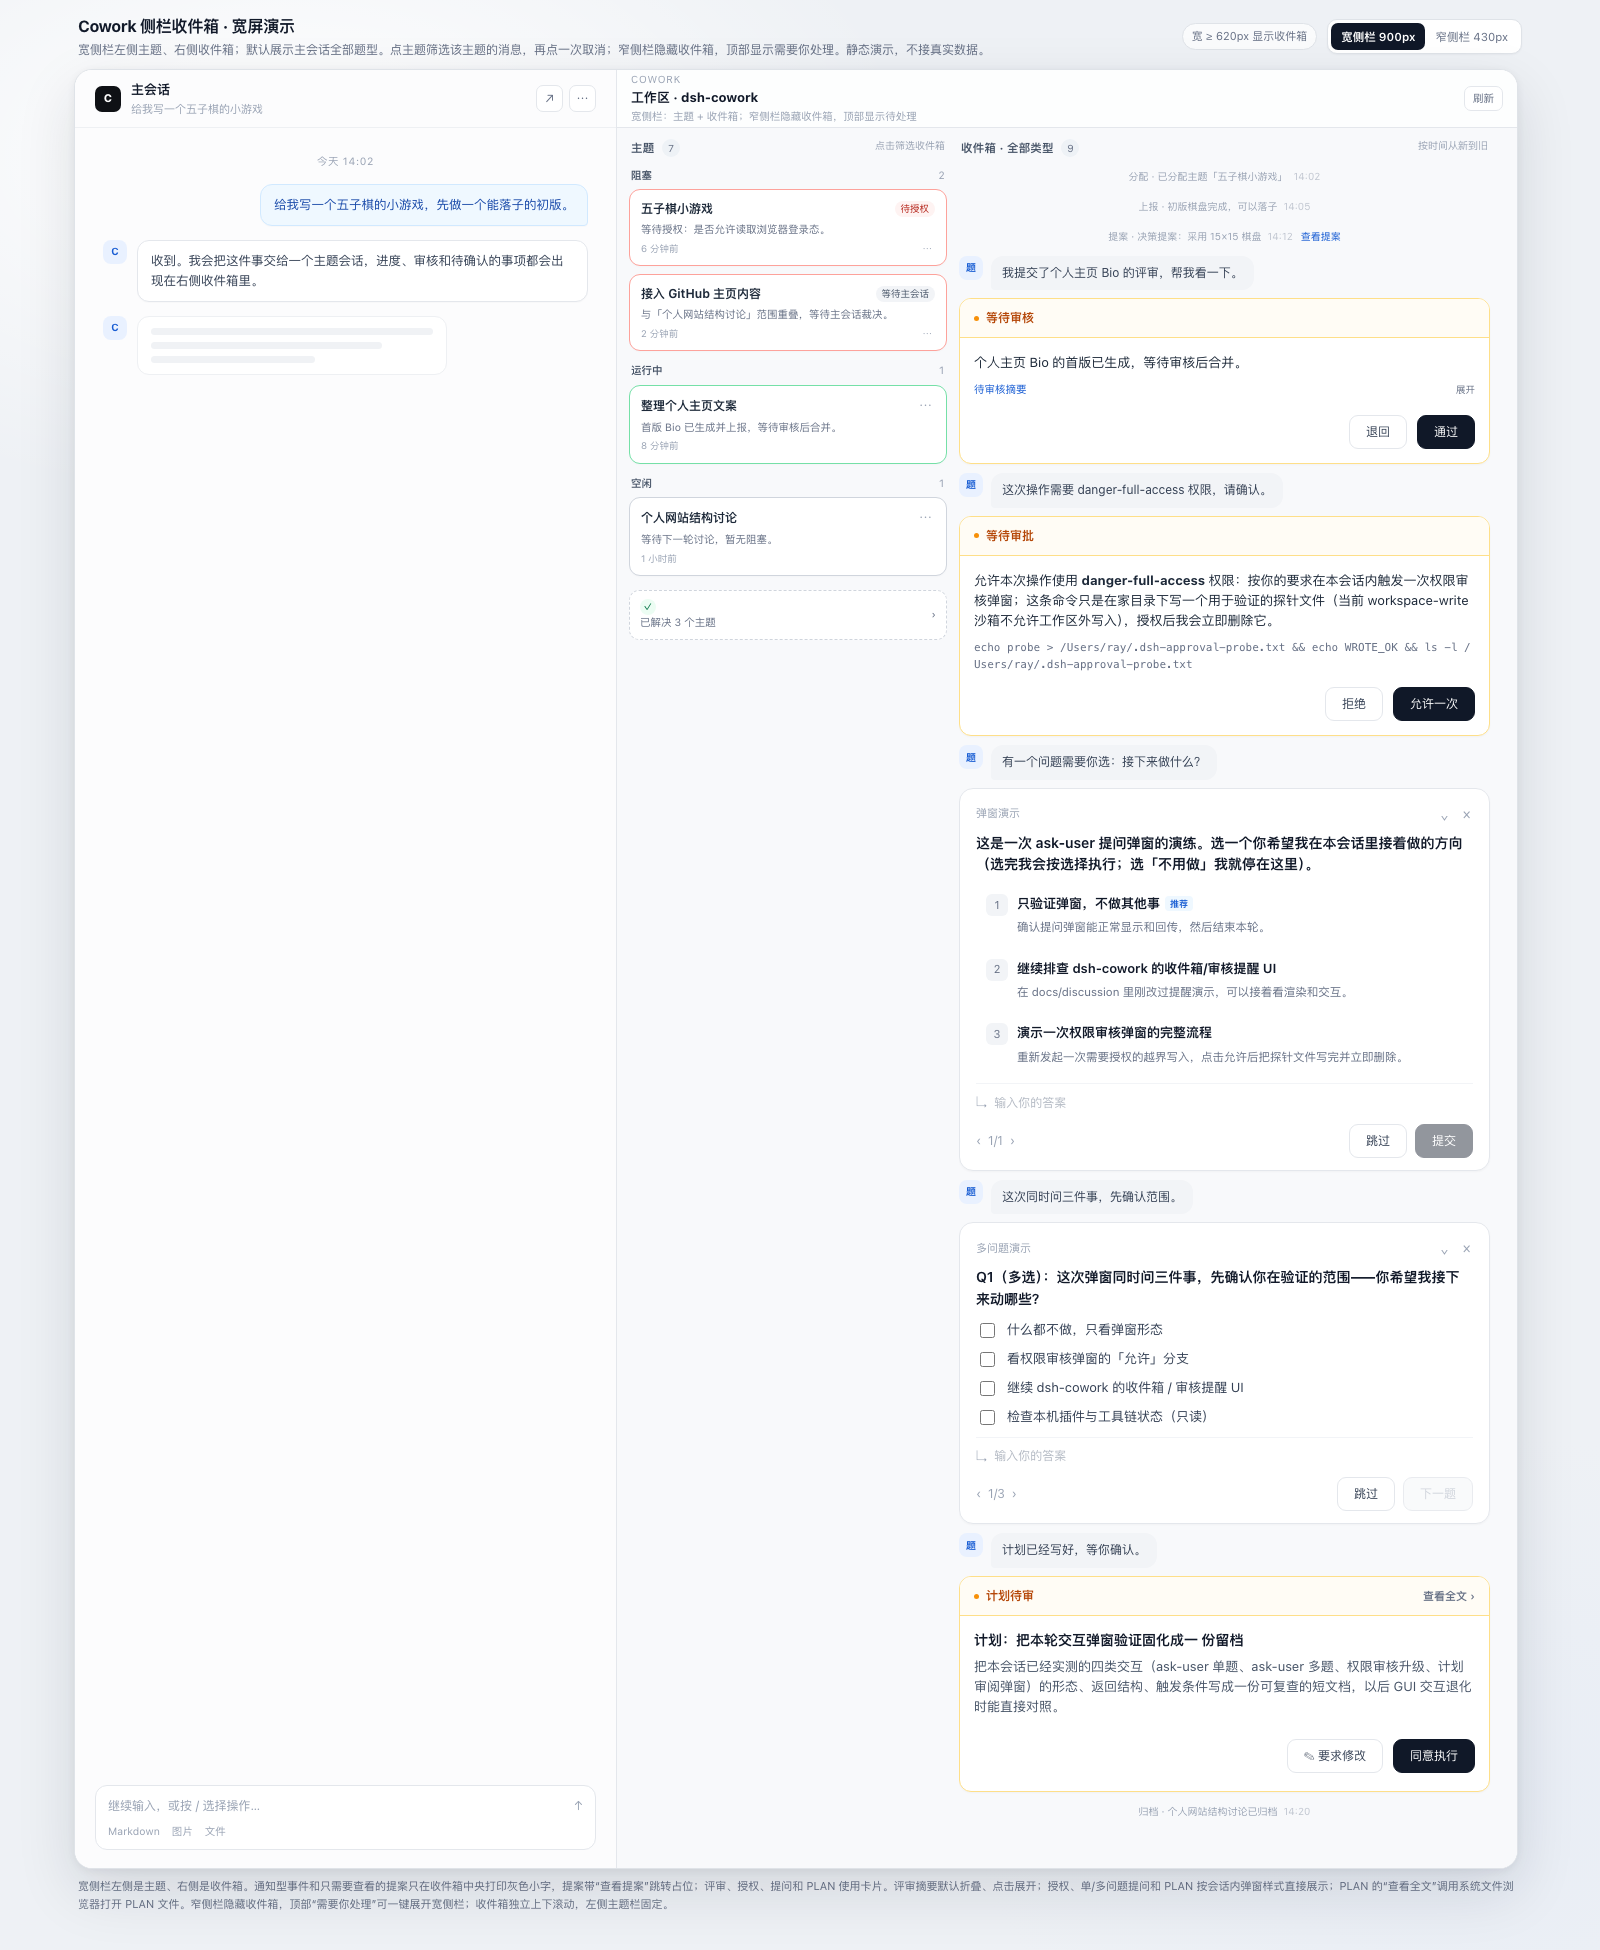
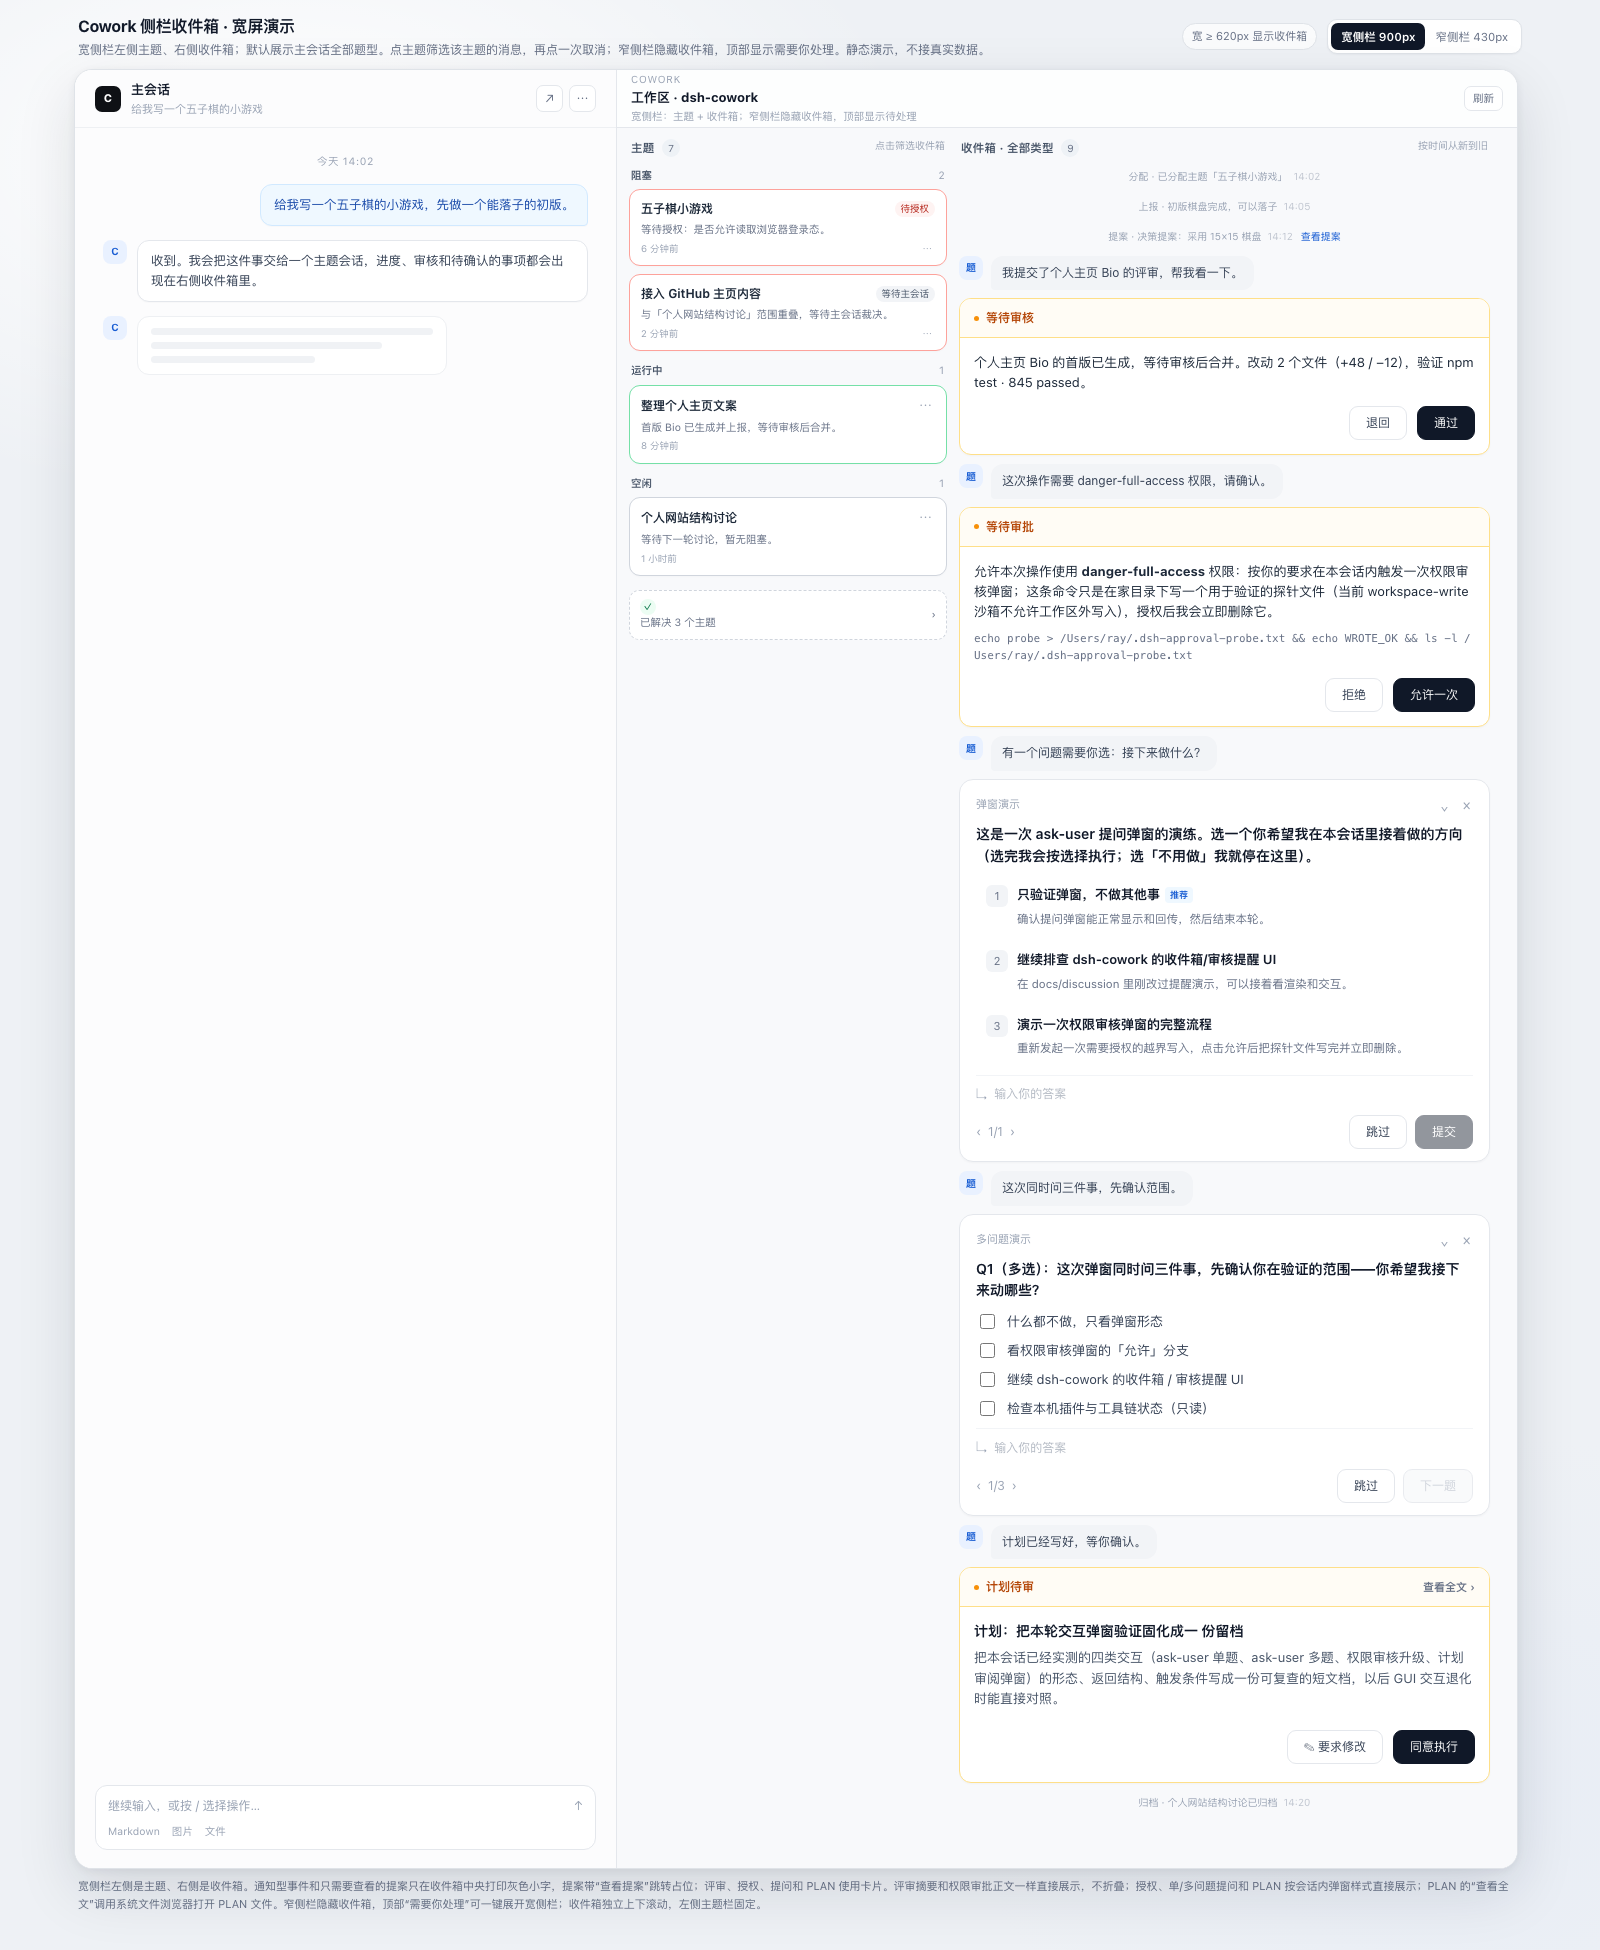
docs(topic-reminders): 评审摘要改为直接展示
评审摘要与权限审批正文同样直接展示、不折叠；移除评审展开态截图，保留对话式左右消息和操作后回复。

diff --git a/docs/discussion/topic-reminder-demo.html b/docs/discussion/topic-reminder-demo.html
@@ -1098,13 +1098,7 @@
             <article class="approval-card" data-kind="review" data-topic="bio" data-topic-name="整理个人主页文案" data-actionable="true">
               <div class="approval-head"><span class="approval-label"><span class="amber-dot"></span>等待审核</span></div>
               <div class="approval-body">
-                <p>个人主页 Bio 的首版已生成，等待审核后合并。</p>
-                <button type="button" class="card-expand" data-expand="review-details" aria-expanded="false">待审核摘要 <span>展开</span></button>
-                <div class="card-detail" id="review-details" hidden>
-                  <div class="detail-line"><span>目的</span><span>个人主页首版 Bio</span></div>
-                  <div class="detail-line"><span>改动</span><span>2 个文件 · +48 / −12</span></div>
-                  <div class="detail-line"><span>验证</span><span>npm test · 845 passed</span></div>
-                </div>
+                <p>个人主页 Bio 的首版已生成，等待审核后合并。改动 2 个文件（+48 / −12），验证 npm test · 845 passed。</p>
               </div>
               <div class="approval-actions">
                 <button type="button" class="btn-ghost" data-action="return">退回</button>
@@ -1219,7 +1213,7 @@
   </div>
 
   <p class="footnote">
-    宽侧栏左侧是主题、右侧是收件箱。通知型事件和只需要查看的提案只在收件箱中央打印灰色小字，提案带“查看提案”跳转占位；评审、授权、提问和 PLAN 使用卡片。评审摘要默认折叠、点击展开；授权、单/多问题提问和 PLAN 按会话内弹窗样式直接展示；PLAN 的“查看全文”调用系统文件浏览器打开 PLAN 文件。窄侧栏隐藏收件箱，顶部“需要你处理”可一键展开宽侧栏；收件箱独立上下滚动，左侧主题栏固定。
+    宽侧栏左侧是主题、右侧是收件箱。通知型事件和只需要查看的提案只在收件箱中央打印灰色小字，提案带“查看提案”跳转占位；评审、授权、提问和 PLAN 使用卡片。评审摘要和权限审批正文一样直接展示，不折叠；授权、单/多问题提问和 PLAN 按会话内弹窗样式直接展示；PLAN 的“查看全文”调用系统文件浏览器打开 PLAN 文件。窄侧栏隐藏收件箱，顶部“需要你处理”可一键展开宽侧栏；收件箱独立上下滚动，左侧主题栏固定。
   </p>
 </div>
 
@@ -1438,18 +1432,6 @@
     if (approval !== null) {
       const allow = approval.querySelector('[data-action="allow"]');
       if (allow !== null) allow.click();
-    }
-  }
-  if (params.get('expanded') === '1') {
-    document.querySelector('.app').style.height = '1800px';
-    for (const id of ['review-details']) {
-      const detail = document.getElementById(id);
-      const toggle = document.querySelector(`[data-expand="${id}"]`);
-      if (detail === null || toggle === null) continue;
-      detail.hidden = false;
-      toggle.setAttribute('aria-expanded', 'true');
-      const label = toggle.querySelector('span');
-      if (label) label.textContent = '收起';
     }
   }
   updateNeedsYou();
